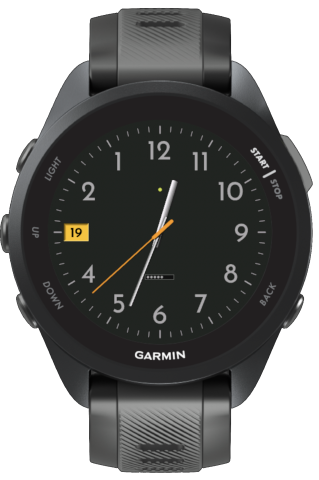
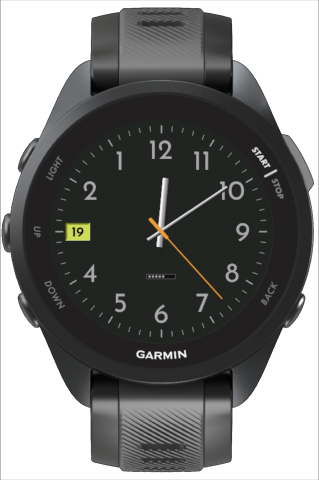
Move notification to top

diff --git a/README.md b/README.md
@@ -8,12 +8,12 @@ Built as a personal watch face for the Forerunner 570 (42mm). It is sideloaded r
 
 ## Features
 
-- Mirrored dial, styled after a Bauhaus-style German watch face on a dark grey background with an amber date box: a minute track with longer, thicker five-minute marks, and Josefin Sans numerals for every hour except the date's. It is mirrored, so the numerals and all three hands run counterclockwise.
+- Mirrored dial, styled after a Bauhaus-style German watch face on a dark grey background with a lime date box: a minute track with longer, thicker five-minute marks, and Josefin Sans numerals for every hour except the date's. It is mirrored, so the numerals and all three hands run counterclockwise.
 - Hour and minute hands are shaded across their width so they look slightly rounded. The hour hand is wider than the minute hand, so it still shows from behind when they overlap.
 - Red second hand with a thick hub and a thin needle. It is hidden in low-power mode.
 - Soft drop shadows under all hands. Stacking order is hour, minute, second.
 - Day of the month in an inset panel on the left, at the hour-3 position.
-- Tiny unread-notification dot above the center, drawn only when there is a notification.
+- Unread-notification mark: the five-minute mark at 12 is drawn over in amber, a little thicker, when there is a notification. It sits outside the reach of the hands.
 - Tiny battery gauge below the center: eight dots in a frame, each an eighth of the charge. The dots turn yellow at 25% or below, orange at 20% or below and red at 10% or below.
 - One on-device setting: a background slider from jet black to 50% grey.
 

diff --git a/docs/AGENTS.md b/docs/AGENTS.md
@@ -13,7 +13,7 @@ Notes for anyone (human or AI) continuing work on Counterclock, a Monkey C / Con
 ## Architecture
 
 - `CounterclockApp.mc`: `AppBase`. Returns `CounterclockView` as the initial view and the settings picker from `getSettingsView()`.
-- `CounterclockView.mc`: everything visual, in `onUpdate`. Draw order is z-order: background layout, dial, date window, notification dot, battery dots, hour hand, minute hand, second hand.
+- `CounterclockView.mc`: everything visual, in `onUpdate`. Draw order is z-order: background layout, dial, date window, notification mark, battery dots, hour hand, minute hand, second hand.
 - `CounterclockBackground.mc`: a `Drawable` used by `resources/layouts/layout.xml`. It only clears the screen using `getBackgroundColor()`.
 - `CounterclockSettings.mc`: `getBackgroundColor()` (reads `Application.Storage`, default dark grey `#333333`), and the slider view and delegate for the one setting (grey level 0-50%, touch drag or up/down buttons, saved in `onHide`).
 
